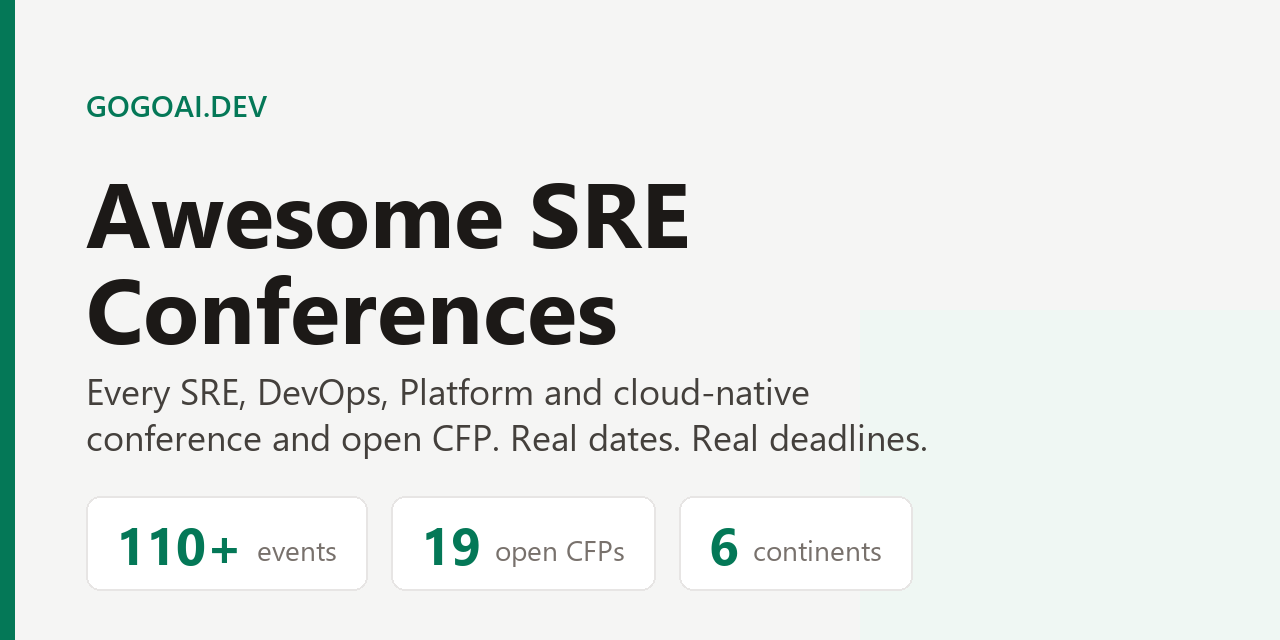
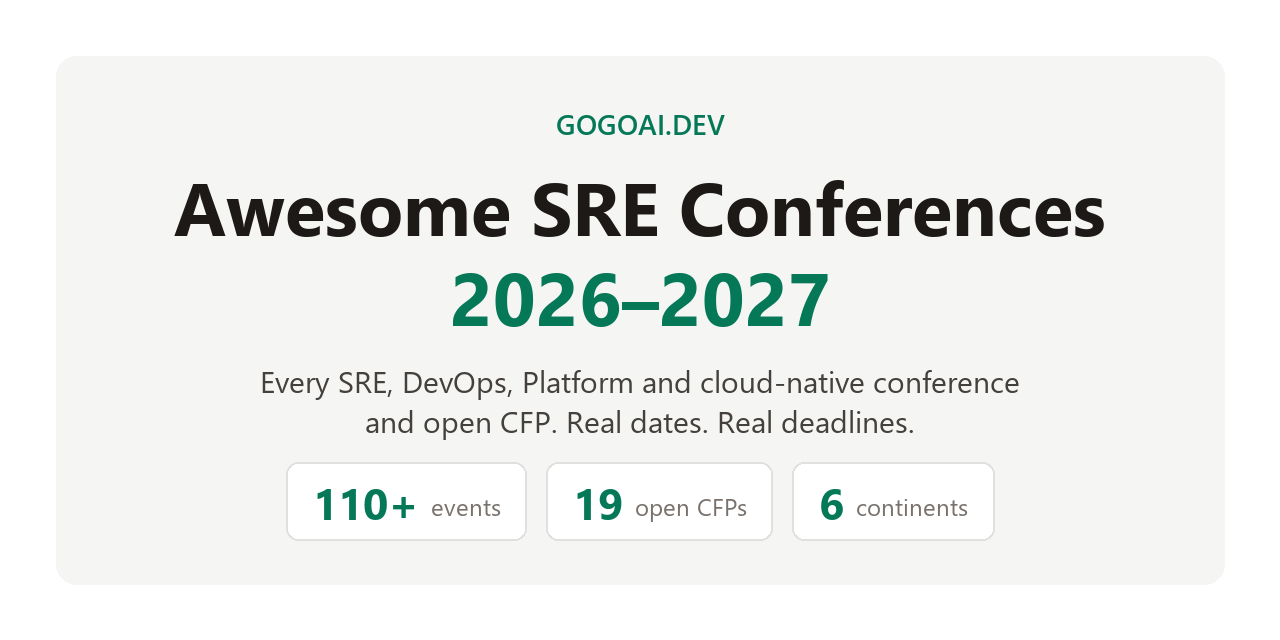
awesome-lint passes clean; badge restored
424 errors -> 0. The badge is back because the list now actually meets
the standard, rather than the other way round.

The 41 double-link errors were not waived, they were designed out. Every
one turned out to be a case where a more specific URL existed and we were
being lazy:
- PlatformCon city days now point at platformconlive.fr, sydney. and
  saopaulo.platformcon.com and /live-day-london instead of all sharing
  the homepage
- all five SREday editions now use their own sreday.com/<year>-<city>-<q>
  pages
- X-Ops splits into /dubai and /madrid
- SREcon27 Americas uses its conference page, not the series page
- the two Linux Foundation series entries point at their own programmes
- The Week in Ops links gogoai.dev/newsletter
- dropped PlatformCon from 'recurring series': every edition is already
  listed with a confirmed date, so it fails that section's own test

CFP section rebuilt, and the data is better for it. Each DevOpsDays CFP
now links its own /propose/ page instead of repeating the event page,
which surfaced four real published deadlines that are now in the main
table: Recife 30 Aug, Bogota 31 Aug, Salvador 31 Aug, Philadelphia 4 Sep.
Four more are open with no published deadline and are listed separately.

Removed DevOpsDays Boston from the CFP list. It has no /propose/ page and
no CFP link anywhere on its site. The earlier 'CFP open' claim came from a
summarised read of the DevOpsDays index, and the index HTML carries no CFP
[…]

diff --git a/README.md b/README.md
@@ -1,4 +1,4 @@
-# Awesome SRE Conferences 2026–2027
+# Awesome SRE Conferences 2026–2027 [![Awesome](https://awesome.re/badge.svg)](https://awesome.re)
 
 > Every SRE, DevOps, Platform Engineering and cloud-native conference worth attending — with real dates, real locations, and open calls for papers with their deadlines.
 
@@ -23,29 +23,28 @@ Most conference lists are a wall of undated links that went stale two years ago.
 
 Sorted by deadline, closest first.
 
-| CFP closes  | Conference                    | Event                        | Submit                                                                |
-| ----------- | ----------------------------- | ---------------------------- | --------------------------------------------------------------------- |
-| 14 Aug 2026 | Cloud Native AI Summit Europe | 2–3 Dec 2026, Paris          | [Sessionize](https://sessionize.com/cloud-native-summit-europe-2026/) |
-| 15 Aug 2026 | Cloud Native Münster          | 22 Sep 2026, Münster         | [Sessionize](https://sessionize.com/cloud-native-munster/)            |
-| 31 Aug 2026 | Open Source Observability Day | TBA                          | [osoday.com](https://osoday.com/call-for-papers)                      |
-| 13 Sep 2026 | KCD Provence                  | 10 Dec 2026, Aix-en-Provence | [Conference Hall](https://conference-hall.io/kcd-provence-2026)       |
-| 14 Sep 2026 | Conf42 DevSecOps 2026         | 15 Oct 2026, Online          | [PaperCall](https://www.papercall.io/conf42-devsecops-2026)           |
-| 1 Nov 2026  | SCaLE 24x                     | 2027, Pasadena CA            | [socallinuxexpo.org](https://www.socallinuxexpo.org/scale/24x/cfp)    |
+| CFP closes  | Conference                    | Event                        | Submit                                                                     |
+| ----------- | ----------------------------- | ---------------------------- | -------------------------------------------------------------------------- |
+| 14 Aug 2026 | Cloud Native AI Summit Europe | 2–3 Dec 2026, Paris          | [Sessionize](https://sessionize.com/cloud-native-summit-europe-2026/)      |
+| 15 Aug 2026 | Cloud Native Münster          | 22 Sep 2026, Münster         | [Sessionize](https://sessionize.com/cloud-native-munster/)                 |
+| 30 Aug 2026 | DevOpsDays Recife             | 12 Dec 2026, Recife          | [Propose a talk](https://devopsdays.org/events/2026-recife/propose/)       |
+| 31 Aug 2026 | DevOpsDays Bogotá             | 23 Oct 2026, Bogotá          | [Propose a talk](https://devopsdays.org/events/2026-bogota/propose/)       |
+| 31 Aug 2026 | DevOpsDays Salvador           | 5 Dec 2026, Salvador         | [Propose a talk](https://devopsdays.org/events/2026-salvador/propose/)     |
+| 31 Aug 2026 | Open Source Observability Day | TBA                          | [osoday.com](https://osoday.com/call-for-papers)                           |
+| 4 Sep 2026  | DevOpsDays Philadelphia       | 1–2 Oct 2026, Philadelphia   | [Propose a talk](https://devopsdays.org/events/2026-philadelphia/propose/) |
+| 13 Sep 2026 | KCD Provence                  | 10 Dec 2026, Aix-en-Provence | [Conference Hall](https://conference-hall.io/kcd-provence-2026)            |
+| 14 Sep 2026 | Conf42 DevSecOps 2026         | 15 Oct 2026, Online          | [PaperCall](https://www.papercall.io/conf42-devsecops-2026)                |
+| 1 Nov 2026  | SCaLE 24x                     | 2027, Pasadena CA            | [socallinuxexpo.org](https://www.socallinuxexpo.org/scale/24x/cfp)         |
 
-**Open, deadline published on the event page:**
+**Open, but no deadline published yet:**
 
-- [DevOpsDays Philadelphia](https://devopsdays.org/events/2026-philadelphia/) - 1–2 Oct 2026.
-- [DevOpsDays Almaty](https://devopsdays.org/events/2026-almaty/) - 16 Oct 2026.
-- [DevOpsDays Juiz de Fora](https://devopsdays.org/events/2026-juiz-de-fora/) - 17 Oct 2026.
-- [DevOpsDays Boston](https://devopsdays.org/events/2026-boston/) - 19–20 Oct 2026.
-- [DevOpsDays Bogotá](https://devopsdays.org/events/2026-bogota/) - 23 Oct 2026.
-- [DevOpsDays Florianópolis](https://devopsdays.org/events/2026-florianopolis/) - 24 Oct 2026.
-- [DevOpsDays Salvador](https://devopsdays.org/events/2026-salvador/) - 5 Dec 2026.
-- [DevOpsDays Recife](https://devopsdays.org/events/2026-recife/) - 12 Dec 2026.
-- [DevOpsDays Tel Aviv](https://devopsdays.org/events/2026-tel-aviv/) - 22 Dec 2026.
-- [DevOpsDays Zurich 2027](https://sessionize.com/devopsdays-zurich-2026/) - 14–15 Apr 2027.
+- [DevOpsDays Almaty](https://devopsdays.org/events/2026-almaty/propose/) - Event 16 Oct 2026, Almaty.
+- [DevOpsDays Juiz de Fora](https://devopsdays.org/events/2026-juiz-de-fora/propose/) - Event 17 Oct 2026, Juiz de Fora.
+- [DevOpsDays Florianópolis](https://devopsdays.org/events/2026-florianopolis/propose/) - Event 24 Oct 2026, Florianópolis.
+- [DevOpsDays Tel Aviv](https://devopsdays.org/events/2026-tel-aviv/propose/) - Event 22 Dec 2026, Tel Aviv.
+- [KCD Suisse Romande 2026](https://sessionize.com/kcd-suisse-romande-2026/) - Event 9–10 Dec 2026, CERN.
+- [DevOpsDays Zurich 2027](https://sessionize.com/devopsdays-zurich-2026/) - Event 14–15 Apr 2027, Zurich.
 - [KCD Budapest 2026](https://sessionize.com/kcd-budapest-2026/) - Date TBA.
-- [KCD Suisse Romande 2026](https://sessionize.com/kcd-suisse-romande-2026/) - 9–10 Dec 2026, CERN.
 - [PlatforMa 2026](https://sessionize.com/platforma2026/) - Platform engineering, date TBA.
 
 **Announced, CFP not yet open:** [KubeCon + CloudNativeCon Europe 2027](https://events.linuxfoundation.org/kubecon-cloudnativecon-europe/), [Dutch Cloud Native Day 2026](https://sessionize.com/dutch-cloud-native-day-2026/).
@@ -76,7 +75,7 @@ Sorted by deadline, closest first.
 | 11 Dec 2026         | [KCD Florida 2026](https://community2.cncf.io/kcd-florida/)                                                                                                 | Miami, FL          |
 | 24 Feb 2027         | [PlatformCon Live Day San Francisco](https://sanfrancisco.platformcon.com/)                                                                                 | San Francisco, CA  |
 | 2 Apr 2027          | [DevOpsDays Los Angeles](https://devopsdays.org/events/2027-los-angeles/)                                                                                   | Los Angeles, CA    |
-| 12–14 Apr 2027      | [SREcon27 Americas](https://www.usenix.org/srecon)                                                                                                          | Seattle, WA        |
+| 12–14 Apr 2027      | [SREcon27 Americas](https://www.usenix.org/conference/srecon27americas)                                                                                     | Seattle, WA        |
 | 24 Jun 2027         | [PlatformCon New York](https://platformcon.com/)                                                                                                            | New York, NY       |
 | 8–11 Nov 2027       | [KubeCon + CloudNativeCon North America 2027](https://events.linuxfoundation.org/kubecon-cloudnativecon-north-america-2027/)                                | New Orleans, LA    |
 | TBA                 | [DevOpsDays Chicago](https://devopsdays.org/events/2027-chicago/)                                                                                           | Chicago, IL        |
@@ -92,7 +91,7 @@ Sorted by deadline, closest first.
 | 17 Sep 2026         | [Swiss Cloud Native Day 2026](https://cloudnativeday.ch/)                                                                                                       | Bern, Switzerland         |
 | 21–22 Sep 2026      | [Cloud Foundry Summit](https://www.cloudfoundry.org/events/)                                                                                                    | Heidelberg, Germany       |
 | 22 Sep 2026         | [Cloud Native Münster](https://www.meetup.com/cloud-native-munster/)                                                                                            | Münster, Germany          |
-| 24 Sep 2026         | [PlatformCon Live Day Paris](https://platformcon.com/)                                                                                                          | Paris, France             |
+| 24 Sep 2026         | [PlatformCon Live Day Paris](https://platformconlive.fr/)                                                                                                       | Paris, France             |
 | 29–30 Sep 2026      | [Cloud Native Days Austria 2026](https://cloudnativedays.at/)                                                                                                   | Vienna, Austria           |
 | 29 Sep 2026         | [KCD Sofia 2026](https://kcd.bg/)                                                                                                                               | Sofia, Bulgaria           |
 | 30 Sep – 1 Oct 2026 | [DevOpsDays Vilnius](https://devopsdays.org/events/2026-vilnius/)                                                                                               | Vilnius, Lithuania        |
@@ -105,11 +104,11 @@ Sorted by deadline, closest first.
 | 22 Oct 2026         | [Cloud Native Days Poland 2026](https://cloudnativedayspoland.org/)                                                                                             | Warsaw, Poland            |
 | 26–27 Oct 2026      | [Cloud Native Days Norway 2026](https://2026.cloudnativedays.no/)                                                                                               | Bergen, Norway            |
 | 29–30 Oct 2026      | [Dutch Cloud Native Day 2026](https://www.dutchcloudnativeday.nl/)                                                                                              | Utrecht, Netherlands      |
-| 2 Nov 2026          | [SREday Amsterdam 2026 Q4](https://sreday.com/)                                                                                                                 | Amsterdam, Netherlands    |
+| 2 Nov 2026          | [SREday Amsterdam 2026 Q4](https://sreday.com/2026-amsterdam-q4/)                                                                                               | Amsterdam, Netherlands    |
 | 13–14 Nov 2026      | [DevOpsDays Barcelona](https://devopsdays.org/events/2026-barcelona/)                                                                                           | Barcelona, Spain          |
 | 19–20 Nov 2026      | [KCD Porto 2026](https://community2.cncf.io/events/details/cncf-kcd-porto-presents-kcd-porto-2026-collab-with-devops-days-portugal/) (with DevOpsDays Portugal) | Porto, Portugal           |
 | 19–20 Nov 2026      | [Cloud Native Denmark 2026](https://cloudnativedenmark.dk/)                                                                                                     | Copenhagen, Denmark       |
-| 19–21 Nov 2026      | [X-Ops Conference Madrid](https://www.xopsconference.com/)                                                                                                      | Madrid, Spain             |
+| 19–21 Nov 2026      | [X-Ops Conference Madrid](https://www.xopsconference.com/madrid)                                                                                                | Madrid, Spain             |
 | 23–24 Nov 2026      | [DevOpsDays Warsaw](https://devopsdays.org/events/2026-warsaw/)                                                                                                 | Warsaw, Poland            |
 | 30 Nov – 4 Dec 2026 | [DevOpsCon Munich 2026](https://devopscon.io/munich/)                                                                                                           | Munich, Germany           |
 | 2–3 Dec 2026        | [Cloud Native AI Summit Europe](https://www.cloudnative.ai/events/paris)                                                                                        | Paris, France             |
@@ -120,11 +119,11 @@ Sorted by deadline, closest first.
 | 15–18 Mar 2027      | [KubeCon + CloudNativeCon Europe 2027](https://events.linuxfoundation.org/kubecon-cloudnativecon-europe-2027/)                                                  | Barcelona, Spain          |
 | 14–15 Apr 2027      | [DevOpsDays Zurich](https://devopsdays.org/events/2027-zurich/)                                                                                                 | Zurich, Switzerland       |
 | 25–26 May 2027      | [DevOpsDays Geneva](https://devopsdays.org/events/2027-geneva/)                                                                                                 | Geneva, Switzerland       |
-| 22 Jun 2027         | [PlatformCon London](https://platformcon.com/)                                                                                                                  | London, UK                |
+| 22 Jun 2027         | [PlatformCon London](https://platformcon.com/live-day-london)                                                                                                   | London, UK                |
 | Apr 2028            | [KubeCon + CloudNativeCon Europe 2028](https://events.linuxfoundation.org/kubecon-cloudnativecon-europe-2028/)                                                  | Berlin, Germany           |
-| Q3 2026             | [SREday London 2026 Q3](https://sreday.com/)                                                                                                                    | London, UK                |
-| Q4 2026             | [SREday Warsaw 2026 Q4](https://sreday.com/)                                                                                                                    | Warsaw, Poland            |
-| Q2 2027             | [SREday Katowice 2027 Q2](https://sreday.com/)                                                                                                                  | Katowice, Poland          |
+| Q3 2026             | [SREday London 2026 Q3](https://sreday.com/2026-london-q3/)                                                                                                     | London, UK                |
+| Q4 2026             | [SREday Warsaw 2026 Q4](https://sreday.com/2026-warsaw-q4/)                                                                                                     | Warsaw, Poland            |
+| Q2 2027             | [SREday Katowice 2027 Q2](https://sreday.com/2027-katowice-q2/)                                                                                                 | Katowice, Poland          |
 | TBA 2026            | [KCD Budapest 2026](https://kcdbudapest.hu/)                                                                                                                    | Budapest, Hungary         |
 
 ## Asia and the Middle East
@@ -136,7 +135,7 @@ Sorted by deadline, closest first.
 | 1 Sep 2026     | [KCD x Ceph x OpenInfra Day Korea 2026](https://community2.cncf.io/events/details/cncf-kcd-south-korea-presents-kcd-x-ceph-x-openinfra-day-korea-2026/) | Seoul, South Korea  |
 | 8–9 Sep 2026   | [KubeCon + CloudNativeCon + OpenInfra Summit China](https://www.lfasiallc.com/kubecon-cloudnativecon-openinfra-summit-pytorch-conference-china/)        | Shanghai, China     |
 | 19 Sep 2026    | [KCD Gujarat 2026](https://sessionize.com/kcd-gujarat-2026/)                                                                                            | Ahmedabad, India    |
-| 15–17 Oct 2026 | [X-Ops Conference Dubai](https://www.xopsconference.com/)                                                                                               | Dubai, UAE          |
+| 15–17 Oct 2026 | [X-Ops Conference Dubai](https://www.xopsconference.com/dubai)                                                                                          | Dubai, UAE          |
 | 16 Oct 2026    | [DevOpsDays Almaty](https://devopsdays.org/events/2026-almaty/)                                                                                         | Almaty, Kazakhstan  |
 | 24 Oct 2026    | [KCD Indonesia 2026](https://kcd.cloudnative.id/)                                                                                                       | Bandung, Indonesia  |
 | 24 Oct 2026    | [DevOpsDays Istanbul](https://devopsdays.org/events/2026-istanbul/)                                                                                     | Istanbul, Türkiye   |
@@ -160,11 +159,11 @@ Sorted by deadline, closest first.
 | 17 Oct 2026    | [DevOpsDays Juiz de Fora](https://devopsdays.org/events/2026-juiz-de-fora/)                       | Juiz de Fora, Brazil           |
 | 23 Oct 2026    | [DevOpsDays Bogotá](https://devopsdays.org/events/2026-bogota/)                                   | Bogotá, Colombia               |
 | 24 Oct 2026    | [DevOpsDays Florianópolis](https://devopsdays.org/events/2026-florianopolis/)                     | Florianópolis, Brazil          |
-| 7 Nov 2026     | [PlatformCon Live Day São Paulo](https://platformcon.com/)                                        | São Paulo, Brazil              |
+| 7 Nov 2026     | [PlatformCon Live Day São Paulo](https://saopaulo.platformcon.com/)                               | São Paulo, Brazil              |
 | 14 Nov 2026    | [DevOpsDays Brasília](https://devopsdays.org/events/2026-brasilia/)                               | Brasília, Brazil               |
 | 5 Dec 2026     | [DevOpsDays Salvador](https://devopsdays.org/events/2026-salvador/)                               | Salvador, Brazil               |
 | 12 Dec 2026    | [DevOpsDays Recife](https://devopsdays.org/events/2026-recife/)                                   | Recife, Brazil                 |
-| Q4 2026        | [SREday Campinas 2026 Q4](https://sreday.com/)                                                    | Campinas, Brazil               |
+| Q4 2026        | [SREday Campinas 2026 Q4](https://sreday.com/2026-campinas-q4/)                                   | Campinas, Brazil               |
 | TBA            | [DevOpsDays São Paulo](https://devopsdays.org/events/2026-sao-paulo/)                             | São Paulo, Brazil              |
 | 22 Jan 2027    | [KCD Panama](https://community2.cncf.io/events/details/cncf-kcd-panama-presents-kcd-panama-2026/) | Panama City, Panama            |
 
@@ -172,7 +171,7 @@ Sorted by deadline, closest first.
 
 | Date           | Conference                                                                   | Location             |
 | -------------- | ---------------------------------------------------------------------------- | -------------------- |
-| 28 Oct 2026    | [PlatformCon Live Day Sydney](https://platformcon.com/)                      | Sydney, Australia    |
+| 28 Oct 2026    | [PlatformCon Live Day Sydney](https://sydney.platformcon.com/)               | Sydney, Australia    |
 | 28–29 Oct 2026 | [Cloud Native Summit APAC 2026](https://www.cloudnative.ai/events/melbourne) | Melbourne, Australia |
 | 9–10 Nov 2026  | [CloudCon SYD 2026](https://cloudcon.au/)                                    | Sydney, Australia    |
 | TBA            | [DevOpsDays Melbourne](https://devopsdays.org/events/2026-melbourne/)        | Melbourne, Australia |
@@ -186,29 +185,28 @@ Sorted by deadline, closest first.
 
 ## Online
 
-| Date           | Conference                                                                |
-| -------------- | ------------------------------------------------------------------------- |
-| 10 Sep 2026    | [Conf42 Observability 2026](https://www.conf42.com/obs2026)               |
-| 15 Oct 2026    | [Conf42 DevSecOps 2026](https://www.conf42.com/devsecops2026)             |
-| 22–26 Jun 2027 | [PlatformCon 2027](https://platformcon.com/) — free virtual flagship week |
+| Date           | Conference                                                                     |
+| -------------- | ------------------------------------------------------------------------------ |
+| 10 Sep 2026    | [Conf42 Observability 2026](https://www.conf42.com/obs2026)                    |
+| 15 Oct 2026    | [Conf42 DevSecOps 2026](https://www.conf42.com/devsecops2026)                  |
+| 22–26 Jun 2027 | [PlatformCon 2027](https://2026.platformcon.com/) — free virtual flagship week |
 
 ## Recurring series
 
 Worth a calendar reminder even when the next date has not been announced.
 
 - [SREcon](https://www.usenix.org/srecon) - USENIX. The reference SRE conference. Americas, EMEA and APAC editions.
-- [KubeCon + CloudNativeCon](https://events.linuxfoundation.org/) - CNCF flagship. NA, Europe, Japan, China and India editions plus a large co-located day-zero programme.
+- [KubeCon + CloudNativeCon](https://events.linuxfoundation.org/kubecon-cloudnativecon-north-america/) - CNCF flagship. NA, Europe, Japan, China and India editions plus a large co-located day-zero programme.
 - [Kubernetes Community Days (KCD)](https://www.cncf.io/kcds/) - CNCF community-run, city-scale, dozens per year worldwide. The cheapest way to speak for the first time. CNCF announces each half-year cohort on its [blog](https://www.cncf.io/blog/).
 - [DevOpsDays](https://devopsdays.org/) - The original distributed conference series and by far the largest source of events on this list. 60+ cities a year, most with open CFPs.
-- [PlatformCon](https://platformcon.com/) - The largest platform engineering event. Free virtual flagship week each June plus a world tour of in-person live days.
 - [Conf42](https://www.conf42.com/) - Free, online, multiple tracks a year (SRE, Observability, DevSecOps, Kubernetes, Platform Engineering, Chaos Engineering).
 - [SREday](https://sreday.com/) - Quarterly, single-track city editions. Currently London, San Francisco, Warsaw, Dallas, Amsterdam, NYC, Campinas and Katowice.
 - [DevOpsCon](https://devopscon.io/) - Commercial conference and training series. Berlin, Munich, New York, San Diego, London, Amsterdam.
 - [ContainerDays](https://www.containerdays.io/) - Hamburg and satellite editions.
 - [SCaLE](https://www.socallinuxexpo.org/) - Southern California Linux Expo, large community track for ops and cloud native.
 - [FOSDEM](https://fosdem.org/) - Brussels, free, February. Multiple ops-adjacent devrooms including SRE, monitoring and containers.
-- [State of Open Con](https://stateofopencon.com/) - OpenUK, London, February.
-- [Open Source Summit](https://events.linuxfoundation.org/) - Linux Foundation. NA, Europe, Japan, China.
+- [State of Open Con](https://openuk.uk/) - OpenUK, London, February.
+- [Open Source Summit](https://events.linuxfoundation.org/open-source-summit-north-america/) - Linux Foundation. NA, Europe, Japan, China.
 - [FinOps X](https://x.finops.org/) - FinOps Foundation. Merging into the Tokenomicon conference in San Diego from June 2027, with Amsterdam and London editions before that.
 
 **Dormant.** Listed because people still search for them, but neither has announced a 2026 or 2027 edition and both sites still show 2024: [Monitorama](https://monitorama.com/) and [All Day DevOps](https://www.alldaydevops.com/). If you know otherwise, please open a PR.
@@ -219,12 +217,12 @@ Worth a calendar reminder even when the next date has not been announced.
 - [developers.events](https://developers.events/) - All developer conferences and CFPs, with list, calendar and map views. Much broader than ops, as is the similar [dev.events](https://dev.events/).
 - [Sessionize](https://sessionize.com/) - The platform most ops CFPs run on, alongside [PaperCall](https://www.papercall.io/) and [Conference Hall](https://conference-hall.io/).
 - [CNCF community events](https://community2.cncf.io/) - Every KCD, meetup and cloud native day.
-- [The Week in Ops](https://gogoai.dev) - Weekly newsletter, every Saturday. New CFPs and event announcements are in it.
+- [The Week in Ops](https://gogoai.dev/newsletter) - Weekly newsletter, every Saturday. New CFPs and event announcements are in it.
 
 ## Contributing
 
 Pull requests welcome. See [CONTRIBUTING.md](CONTRIBUTING.md). One rule above all others: **every entry needs a date and a link to the organizer's own page.** An undated entry is what makes conference lists useless.
 
-Maintained by the team behind [gogoai.dev](https://gogoai.dev), all in one feed for SRE, DevOps and Platform.
+Maintained by the team behind gogoai.dev, all in one feed for SRE, DevOps and Platform.
 
 Released under [CC0 1.0 Universal](LICENSE): to the extent possible under law, the contributors have waived all copyright and related rights to this work.
